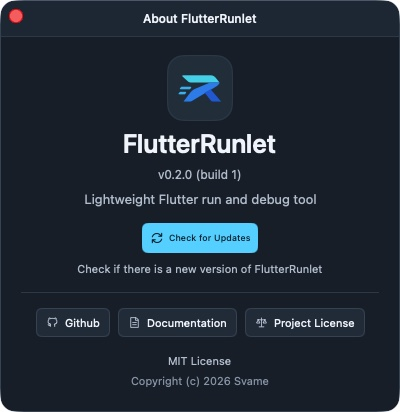
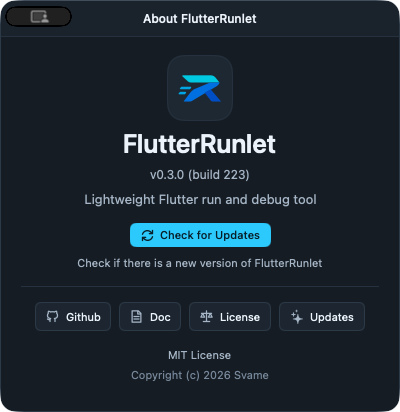
docs: 更新 v0.3 说明及脱敏窗口截图

diff --git a/README.md b/README.md
@@ -23,10 +23,10 @@ I built FlutterRunlet so I could keep my existing Flutter configurations, leave 
 | Main window | Menu bar |
 | :---: | :---: |
 | [![FlutterRunlet main window with app, configuration, device, and logs](docs/screenshots/main-window.jpg)](docs/screenshots/main-window.jpg) | [![macOS menu bar with the FlutterRunlet panel open](docs/screenshots/menu-bar.jpg)](docs/screenshots/menu-bar.jpg) |
-| **Settings** | **About** |
-| [![FlutterRunlet general settings](docs/screenshots/settings.jpg)](docs/screenshots/settings.jpg) | [![About FlutterRunlet and the Check for Updates button](docs/screenshots/about.jpg)](docs/screenshots/about.jpg) |
+| **DevTools settings** | **About** |
+| [![FlutterRunlet DevTools settings with a standalone SDK and a shortened path](docs/screenshots/devtools.jpg)](docs/screenshots/devtools.jpg) | [![About FlutterRunlet with Check for Updates and four links](docs/screenshots/about.jpg)](docs/screenshots/about.jpg) |
 
-Screenshots show a v0.2.0 development build with sample data.
+The DevTools, [full path popover](docs/screenshots/devtools-path.jpg), [General settings](docs/screenshots/settings.jpg), and About screenshots are from v0.3.0 build 223. The main window and menu bar were captured on v0.2.0 with sample data.
 
 ## Install
 
@@ -43,7 +43,9 @@ The deployment target is macOS 15.0. Universal builds include Apple Silicon and 
 
 Choose VS Code (default), Cursor, or Zed in **Settings → DevTools → Source Editor**. In DevTools 2.61.0 and later, select a widget and click its source location in the Inspector details pane. With bundled DevTools 2.60.0, selecting the widget opens its source. FlutterRunlet launches the editor on demand for Dart files in the active project.
 
-In **Settings → DevTools → DevTools Source**, you can choose a separate Dart SDK directory. Dart 3.14.0 includes DevTools 2.61.0. FlutterRunlet starts it on demand and connects the Inspector to the active session. The project continues to use its configured Flutter and Dart SDK. Select **Bundled with Flutter** to switch back.
+In **Settings → DevTools → DevTools Source**, choose **Standalone Dart SDK** and select its directory. Dart 3.14.0 includes DevTools 2.61.0. To select another directory, click **Change…** beside **Path** in the **Dart SDK** group. The path appears on the next line. Hover over it to see the full path, or click **…** to open a popover with **Copy Path**.
+
+FlutterRunlet starts the standalone DevTools on demand and connects the Inspector to the active session. The project continues to use its configured Flutter and Dart SDK. Select **Bundled with Flutter** to switch back.
 
 Click **Open Inspector** again to return to its existing tab for the current session. After closing the tab, click again to reopen it. Edge, Chrome, and Safari require macOS browser automation permission for this feature.
 

diff --git a/docs/02-TECHNICAL.md b/docs/02-TECHNICAL.md
@@ -146,8 +146,8 @@ SDK 解析建议：当「优先使用项目 FVM」启用且项目具有有效 FV
 
 - 「通用」管理语言、应用外观、登录时启动、启动后显示主窗口和记住最近项目。语言默认跟随系统。未保存外观偏好时使用深色，手动切换立即应用并持久化。启动偏好默认值见 [UI 规格](design/UI-SPEC.md#3-设置窗口通用)。
 - 「Flutter」：SDK 来源、路径、当前 Flutter/Dart 版本、FVM 优先、`flutter doctor` 简要诊断；不负责安装/升级 SDK。
-- 「DevTools」管理 DevTools 来源和源码编辑器。通过会话中的按钮手动打开 DevTools 或 Inspector。
-- 「关于」：显示应用身份、实际版本及构建号、许可证和上游版权。项目主页、README 和项目许可证链接交给默认浏览器打开。G3 已核对三个目标，匿名访问在公开发布时复验。
+- 「DevTools」管理 DevTools 来源和源码编辑器。独立 Dart SDK 路径单独保存，变更立即更新此页显示的版本。路径放在「更换…」下一行，缩略时可悬停查看完整地址，也可用行尾按钮打开浮窗并复制路径。通过会话中的按钮手动打开 DevTools 或 Inspector。
+- 「关于」显示应用身份、实际版本及构建号、许可证和上游版权。项目主页、README、许可证和近期更新链接由默认浏览器打开。
 - app icon 与 status-bar icon 从同一 Figma 主 glyph 分别导出；后者采用 macOS template image，不直接使用带底色的方形位图。
 
 ## 8. 测试重点（Phase 设计依据）

diff --git a/AGENTS.md b/AGENTS.md
@@ -22,6 +22,7 @@
 - 按需查阅与当前任务相关的项目文档。[产品需求](docs/01-PRODUCT.md)定义产品范围，[技术契约](docs/02-TECHNICAL.md)定义运行行为与安全规则。界面实现遵循 [UI 规格](docs/design/UI-SPEC.md)和[设计系统](docs/design/DESIGN-SYSTEM.md)。仅在布局或视觉变更时核对适用的[已验收设计](docs/design/FIGMA-HANDOFF.md#最终原型与播放入口)。记录实质冲突，优先遵循用户本轮明确指令，其次是已记录的适用用户决定。
 - 涉及配置解析、任务执行或环境恢复时，先读技术契约的对应章节。FlutterRunlet 不直接改写用户 Flutter 项目文件。项目已配置任务的文件副作用按技术契约处理。
 - UI 修改限于本轮授权范围。超出授权且影响已验收布局、视觉或交互的调整，须经用户明确确认。
+- 每次更新 `README.md` 或任一语言版本，提交前检查公开正文、链接和所引用的图片是否脱敏。使用示例项目、设备名和 SDK 路径，逐张检查画面文字及图片元数据，清除本机用户名、个人路径、业务数据、内网地址和凭据。原始验收材料留在本地忽略目录。
 
 ## 测试与验证
 

diff --git a/docs/RELEASE-NOTES.md b/docs/RELEASE-NOTES.md
@@ -1,5 +1,13 @@
 # FlutterRunlet 版本说明
 
+## v0.3.0 · 本地候选
+
+- Inspector 可按需启动独立 DevTools 并连接当前调试会话。同一会话重复打开会复用浏览器标签，选中 Widget 后可从 Inspector 跳到源码，按需打开 VS Code、Cursor 或 Zed。
+- 设置新增 DevTools 页。独立 Dart SDK 路径单独显示，过长时从中间省略。可通过悬停查看完整地址，或点击行尾「…」在浮窗中查看并复制。通用设置提供深色、浅色和跟随系统，未保存偏好时默认深色。
+- 独立「关于」窗口提供项目主页、文档、许可证和近期更新四个入口。
+
+本地候选 `2525774`（build 223）包含完整路径浮窗。独立 DevTools 2.61.0 与项目现有 Flutter、Dart 配置可继续使用。[PR #1](https://github.com/atypiape/flutter-runlet/pull/1)
+
 ## v0.2.0 · 双架构 DMG
 
 - 主窗口和菜单栏共享项目历史、设备选择和调试状态；运行中改选设备只影响下一次运行。主窗口支持复制、清空和折叠日志。

diff --git a/docs/DEVELOPMENT.md b/docs/DEVELOPMENT.md
@@ -20,7 +20,7 @@ xcodebuild -project FlutterRunlet.xcodeproj -scheme FlutterRunlet \
 
 把可重建的编译缓存和试打包产物放在 `.build/`，把原始验收截图、日志、测试结果包和与签核摘要绑定的候选留在 `.private/`，只提交脱敏结论。清理时保留签核引用的原始证据及候选；重新构建的二进制不能替代锁定摘要的原件。
 
-更新用户文档时，同步维护[英文首页](../README.md)和[简体中文说明](../README.zh-CN.md)。为每种语言拍摄对应的 [README 截图](screenshots/)。用隔离示例取图，检查画面和图像元数据后再提交。
+更新用户文档时，同步维护[英文首页](../README.md)和[简体中文说明](../README.zh-CN.md)。为每种语言拍摄对应的 [README 截图](screenshots/)。用隔离示例取图，保留完整窗口与标题栏，排除鼠标指针和桌面背景。提交前按[协作约定](../AGENTS.md#文档与边界)检查各语言版正文、链接、截图内容和图像元数据。
 
 ## 打包本地候选
 
